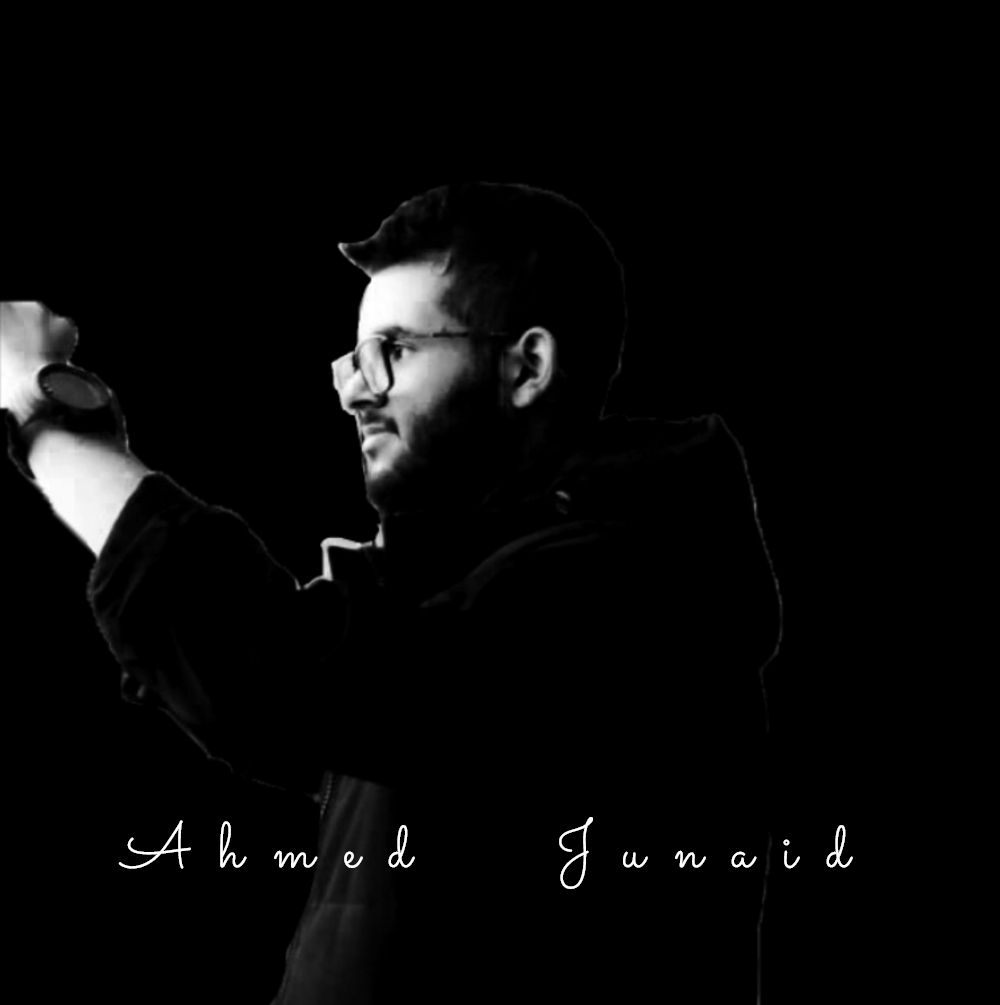
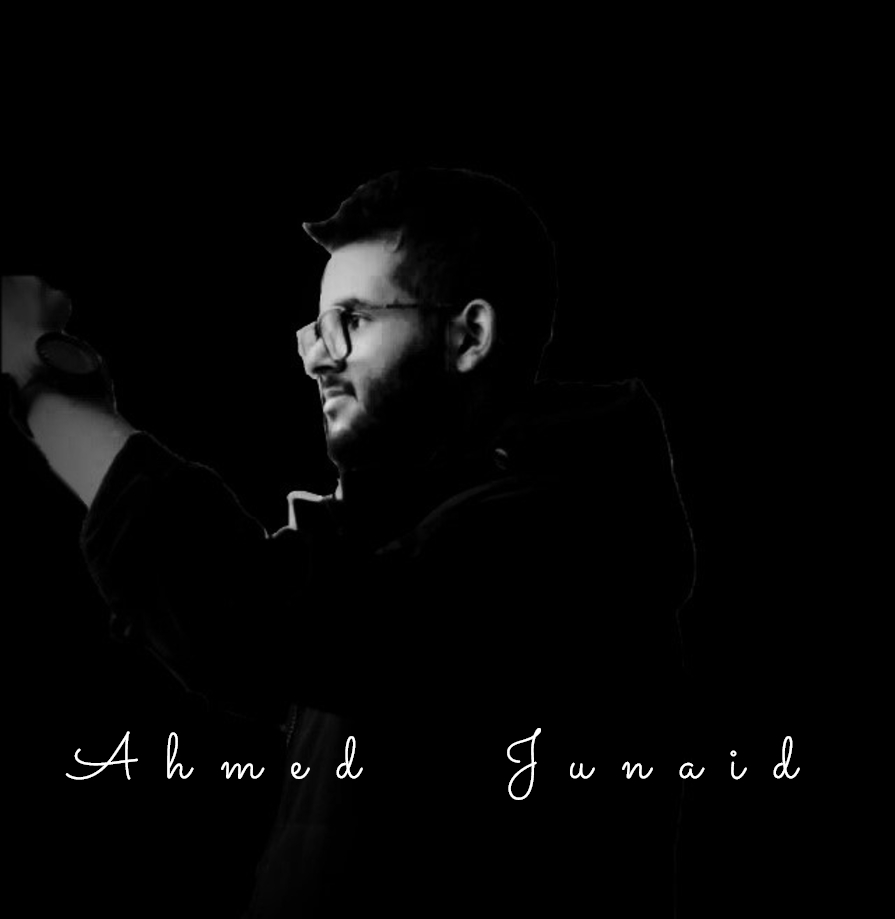
Add files via upload
optimized for Small devices

diff --git a/index.html b/index.html
@@ -13,7 +13,8 @@
   <script src="https://maxcdn.bootstrapcdn.com/bootstrap/4.0.0/js/bootstrap.min.js" integrity="sha384-JZR6Spejh4U02d8jOt6vLEHfe/JQGiRRSQQxSfFWpi1MquVdAyjUar5+76PVCmYl" crossorigin="anonymous"></script>
   <link rel="preconnect" href="https://fonts.gstatic.com">
   <!-- google fonts -->
-
+  <link rel="preconnect" href="https://fonts.gstatic.com">
+  <link href="https://fonts.googleapis.com/css2?family=Anton&display=swap" rel="stylesheet">
   <link rel="preconnect" href="https://fonts.gstatic.com">
   <link href="https://fonts.googleapis.com/css2?family=Montserrat:wght@100&display=swap" rel="stylesheet">
   <!-- icons -->
@@ -57,12 +58,12 @@
 
   <section id="introduction-section" class="container-fluid">
 
-    <h1 class="Heading">Introduction❤</h1>
+    <h1 class="Heading">Introduction<span class="Heart">❤</span></h1>
     <p class="description">Greetings my name is Ahmed Junaid and i am a software developer from pakistan
       i am the owner of SwiftDevs (a software house based in peshawar,Pakistan)
 
       I am an iOS and full Stack website developer
-      i ❤ to code and provide good products
+      i <span class="Heart">❤</span> to code and provide good products
       Thanks for reading </p>
 
     <hr class="Rule">
@@ -91,7 +92,7 @@
         <div class="carousel-item active">
 
           <img class="skill-img" src="images/swift.png" alt="swift Icon">
-          <h2>iOS Developer</h2>
+          <h2 class="skill-title">iOS Developer</h2>
           <p class="skill-description">I'm an iOS Developer working with latest Swift UI framework💖, i was very much interested in iOS devices when they came around in 2011  iOS is really simple and clean so i decided to create apps for it and become a developer📝</p>
 
 
@@ -99,7 +100,7 @@
         <div class="carousel-item">
 
           <img class="skill-img" src="images/website.gif" alt="website development image">
-          <h2 >Full Stack Website Developer</h2>
+          <h2 class="skill-title">Full Stack Website Developer</h2>
           <p class="skill-description">I'm an Full Stack Developer working with latest framework💖, i started out my coding journey when i was 12 years old when i got my first laptop and i decided to become a website developer since that day i've been building sites for millions of people across the globe 🌏</p>
 
 
@@ -124,7 +125,7 @@
 
   <section id="Social-Links" class="container-fluid">
 
-  <h1 >Social Links</h1>
+  <h1 class="Heading">Social Links</h1>
   <div class="row pads">
 
     <div class="col-lg-4  space">
@@ -144,7 +145,7 @@
 
   <footer class="pads">
 
-  <p>@ijunaid.com all rights reserves 2021</p>
+  <p>©ijunaid.com All rights reserved 2021</p>
 
   </footer>
 

diff --git a/css/index.css b/css/index.css
@@ -4,6 +4,12 @@ body{
 }
 
 
+h1,h2,h3,h4{
+
+      font-family: 'Anton', sans-serif;
+}
+
+
 .icon-image{
 
   width: 200px;
@@ -41,6 +47,7 @@ label{
   width:50%;
   color:white;
   margin: 0 auto;
+  font-size: 1rem;
 font-family: 'Montserrat', sans-serif;
 }
 
@@ -51,7 +58,7 @@ font-family: 'Montserrat', sans-serif;
   width: 4%;
   margin: 100px auto;
 }
-/* container section */
+/* contact section */
 
 #Contact-section{
   background: white;
@@ -62,6 +69,7 @@ font-family: 'Montserrat', sans-serif;
 }
 .Contact-Heading{
   font-weight: bold;
+  font-size: 2rem;
 }
 .Form-custom{
   display: inline-block;
@@ -73,6 +81,7 @@ font-family: 'Montserrat', sans-serif;
 .skill-H{
   padding-bottom: 5%;
   font-weight: bold;
+  font-size: 2rem;
 }
 .skill-img{
   width: 300px;
@@ -85,7 +94,7 @@ font-family: 'Montserrat', sans-serif;
 }
 
 .skill-description{
-
+font-size: 1rem;
   width: 30%;
   margin: 0 auto;
 font-family: 'Montserrat', sans-serif;
@@ -110,6 +119,10 @@ a{
   padding: 20px 0;
 }
 
+.Heart:hover{
+  color:red;
+}
+
 @media (max-width:1028px) {
 .icon-image{
 
@@ -122,5 +135,34 @@ width:150px;
 
 .Title-image{
   width: 500px;
+}
+
+.Heading{
+  font-size: 3rem;
+
+}
+
+.description{
+
+font-size: 2rem;
+}
+.skill-description{
+width: 50%;
+font-size: 2rem;
+}
+.skill-H{
+
+  font-size: 3rem;
+
+}
+.skill-title{
+  font-size: 3rem;
+}
+.Contact-Heading{
+  font-size: 3rem;
+}
+
+.Heart{
+  color:red;
 }
 }
